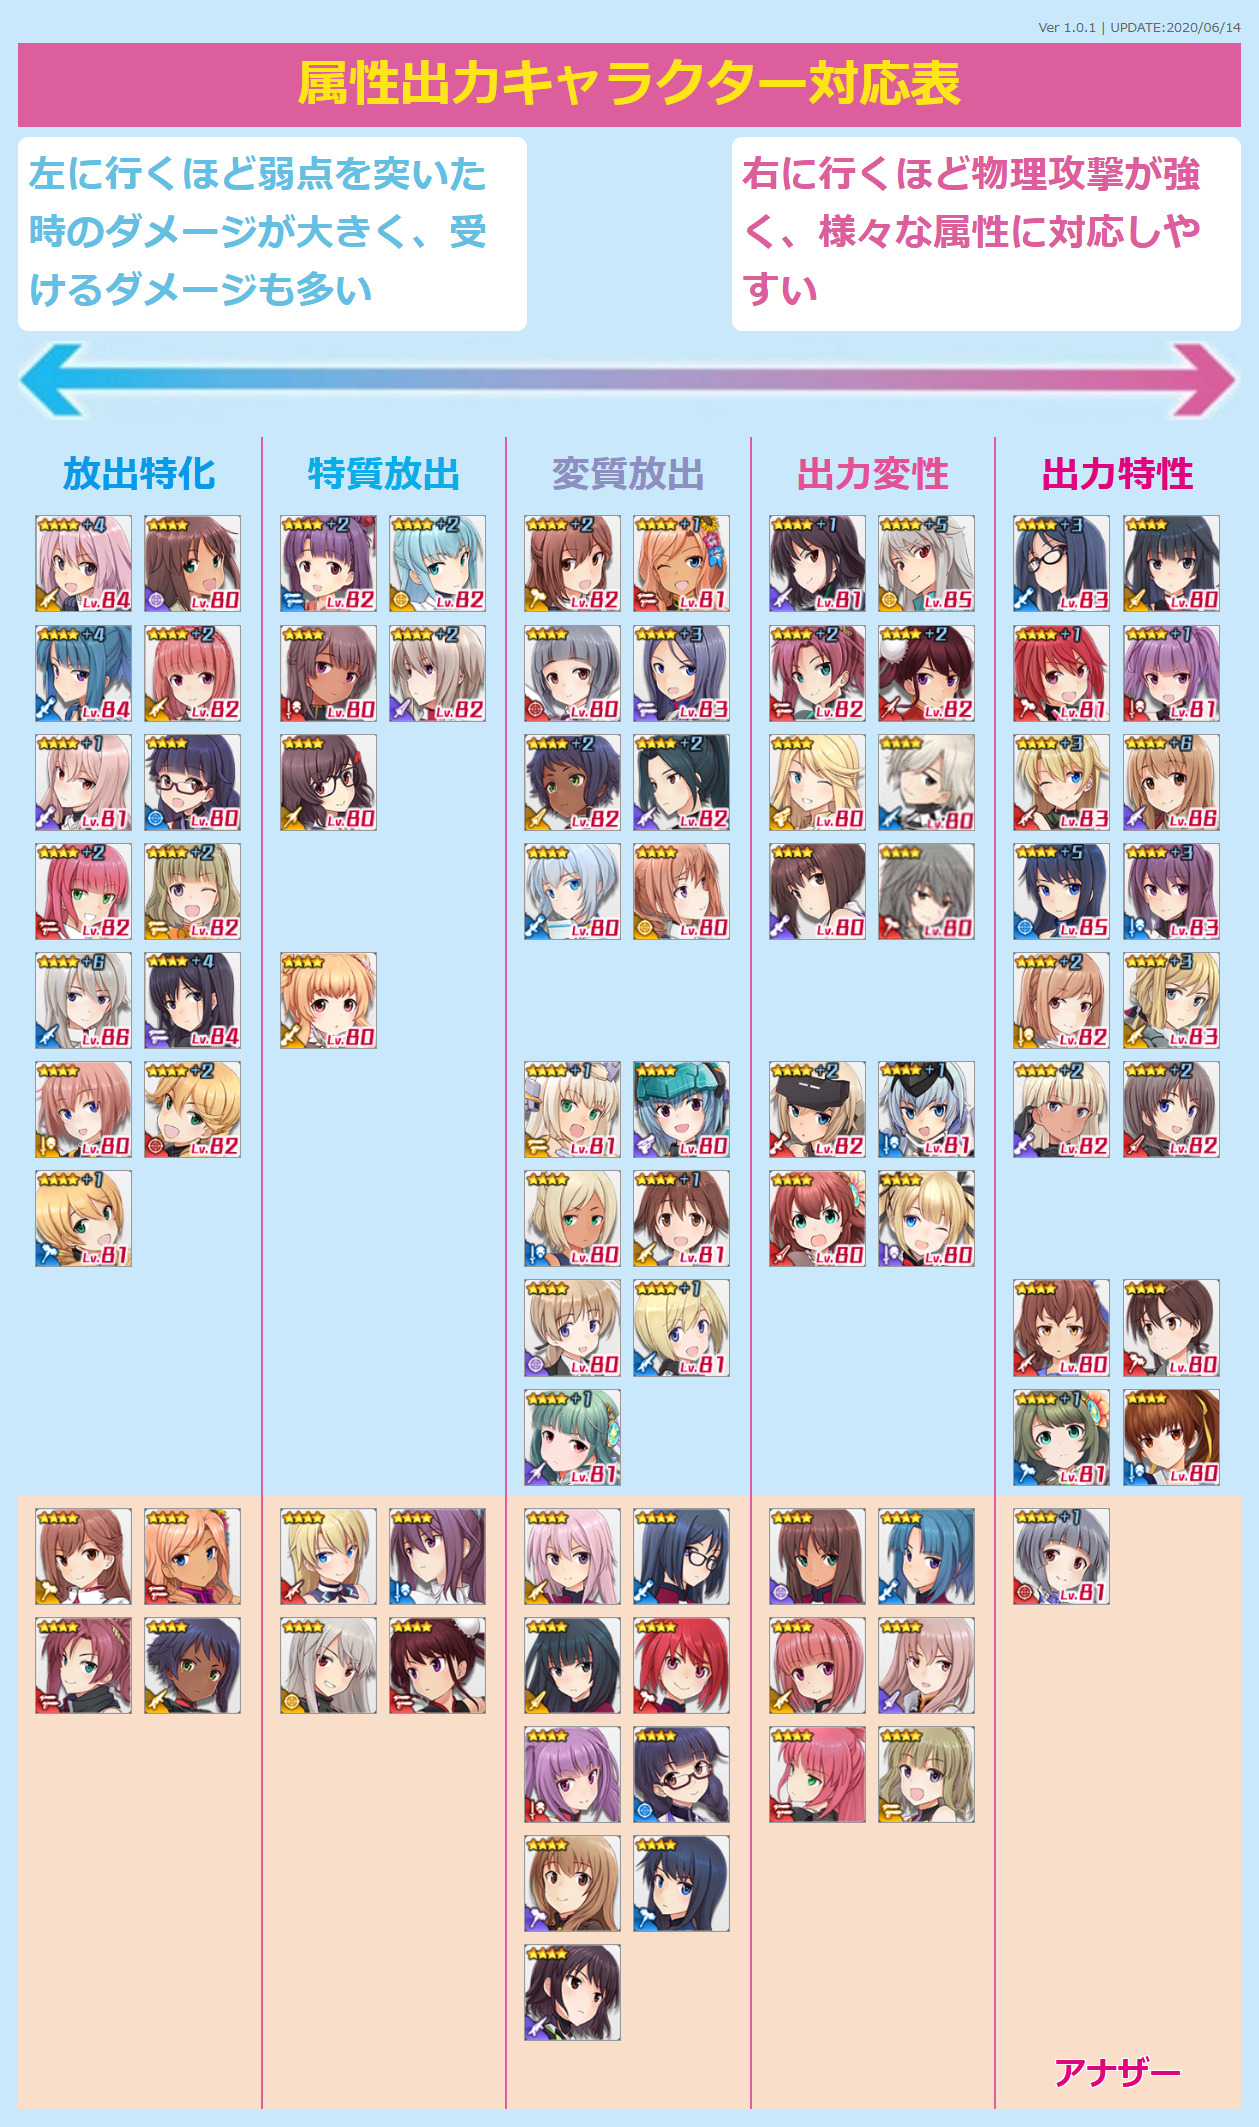
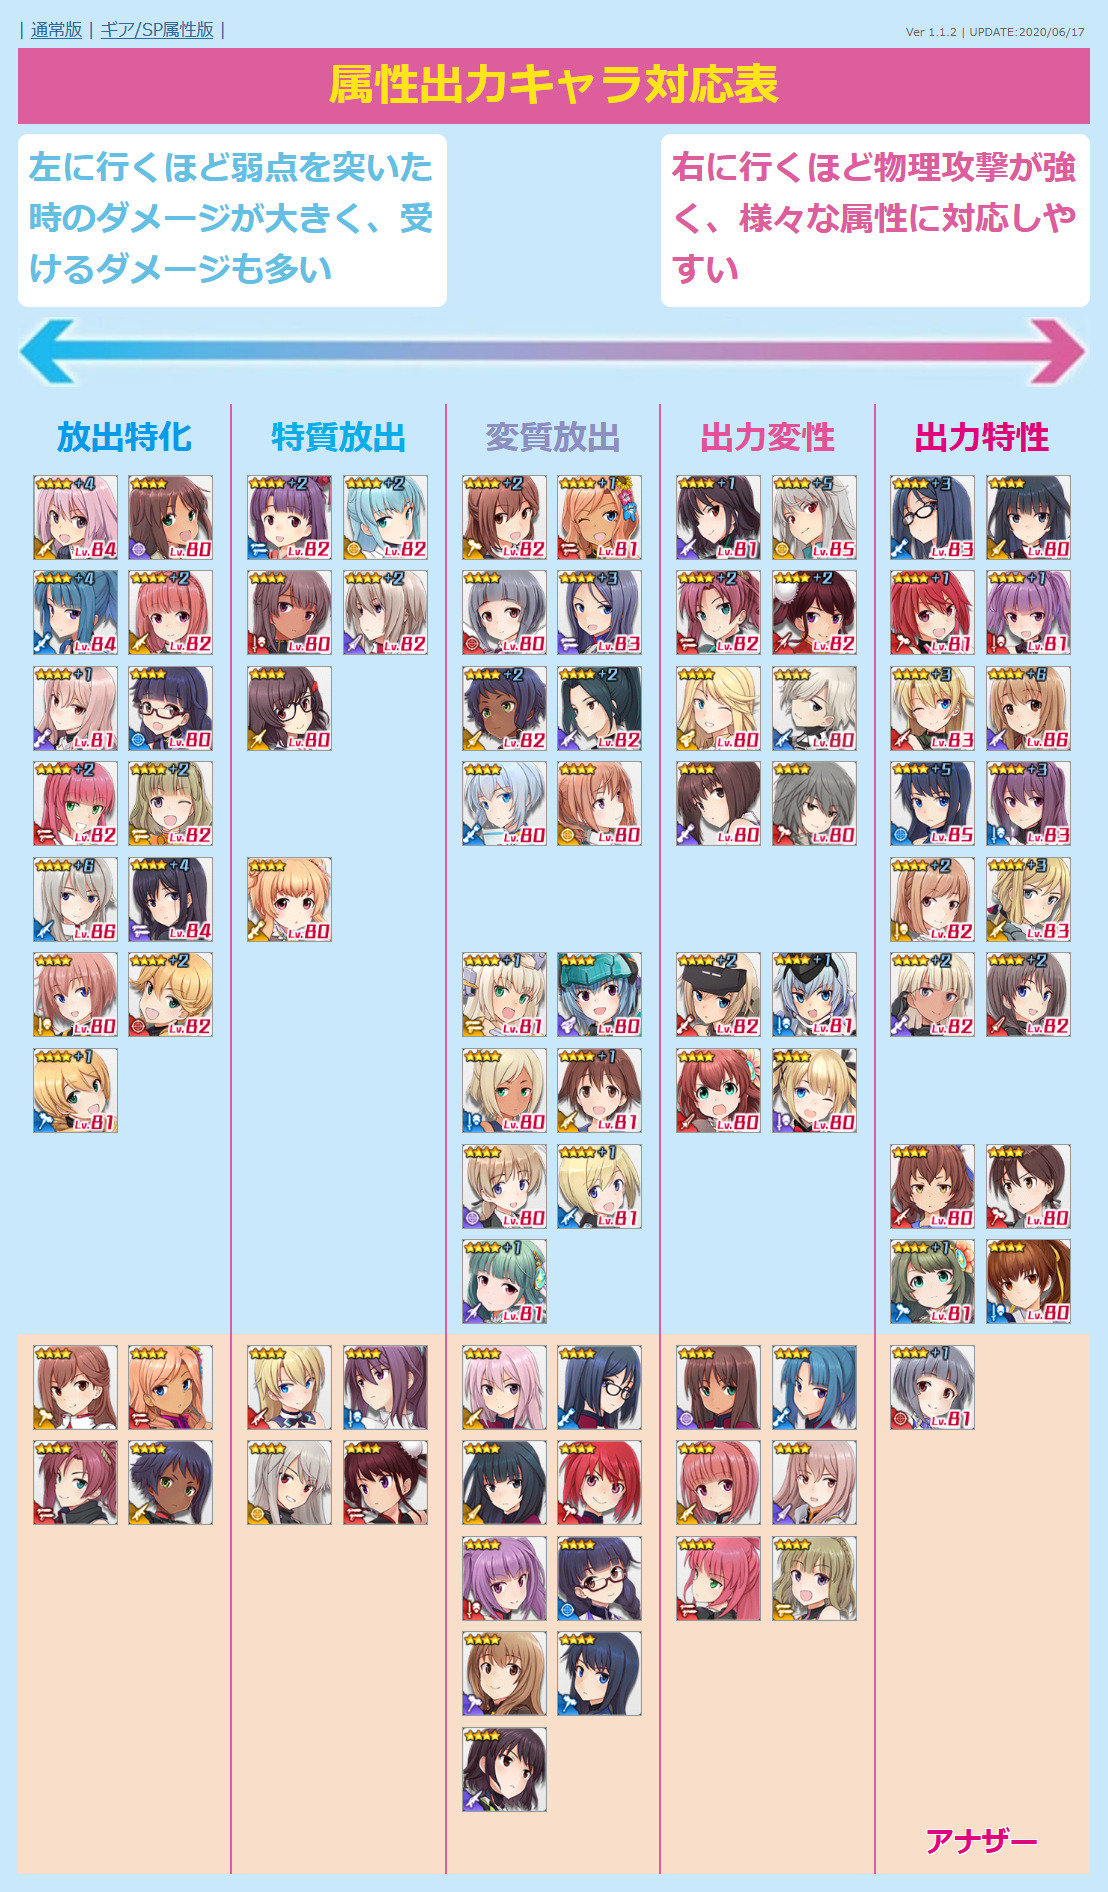
update chara data
愛花のクロスを打撃に修正
穴杏奈のSPを打撃に修正

diff --git a/alice.html b/alice.html
@@ -204,7 +204,7 @@
       "src": "normal-aika.png",
       "name": "相河 愛花",
       "equip1": "1/1",
-      "equip2": "3",
+      "equip2": "4",
       "equip3": "2",
       "equip4": "5",
       "sp": "5",
@@ -455,7 +455,7 @@
       "equip2": "4/415",
       "equip3": "5",
       "equip4": "2",
-      "sp": "35",
+      "sp": "45",
       "attr": "1",
       "category": "10"
     },
